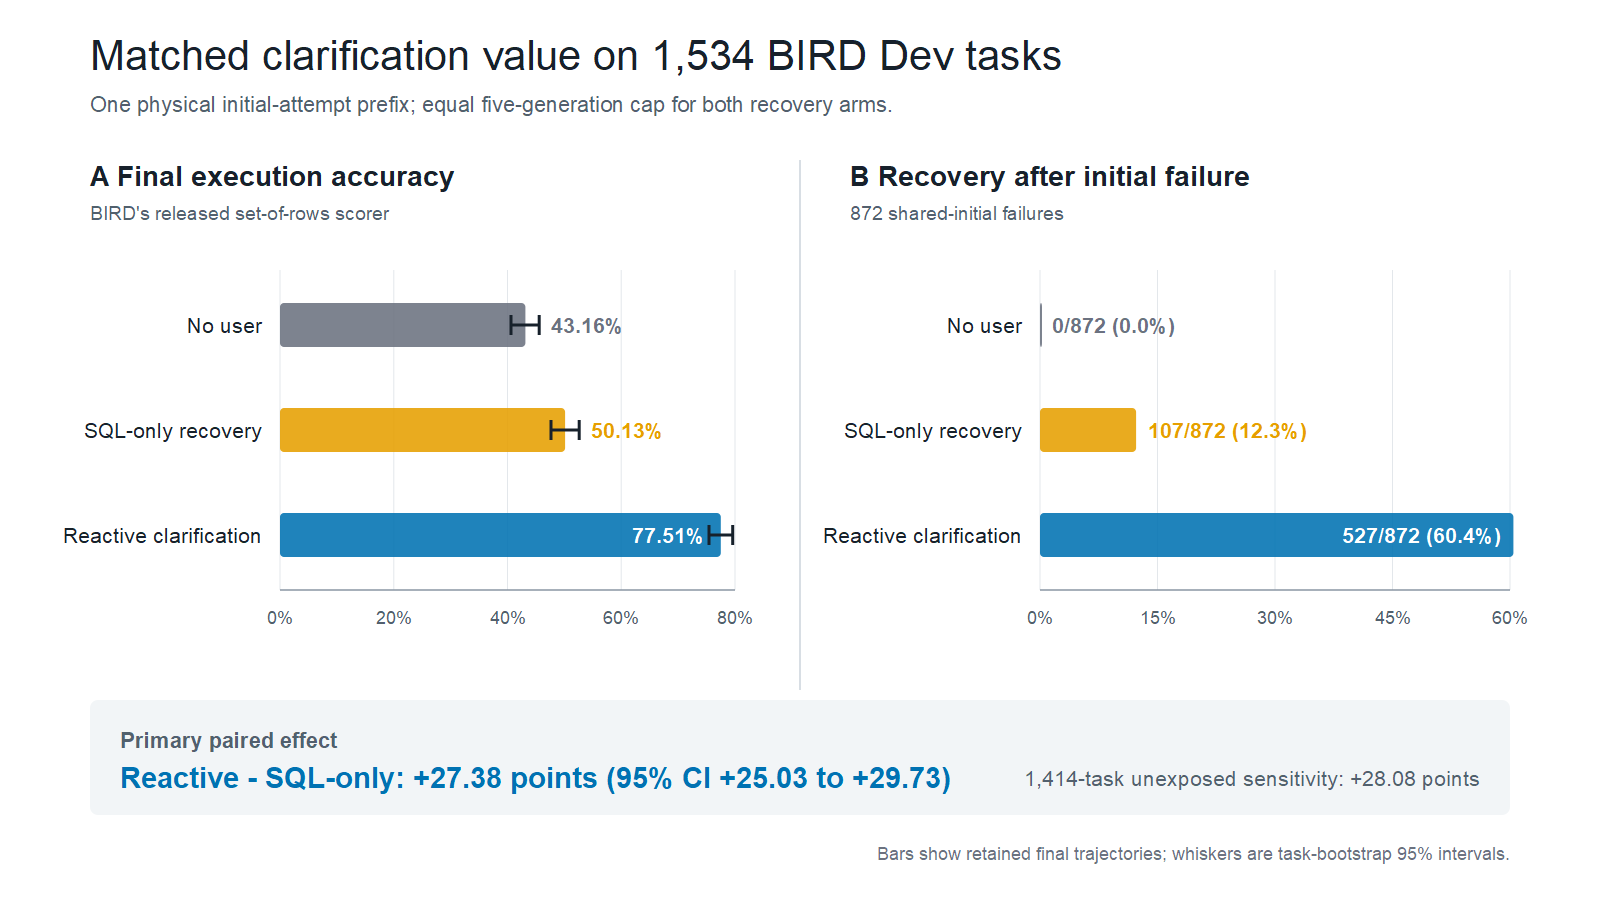
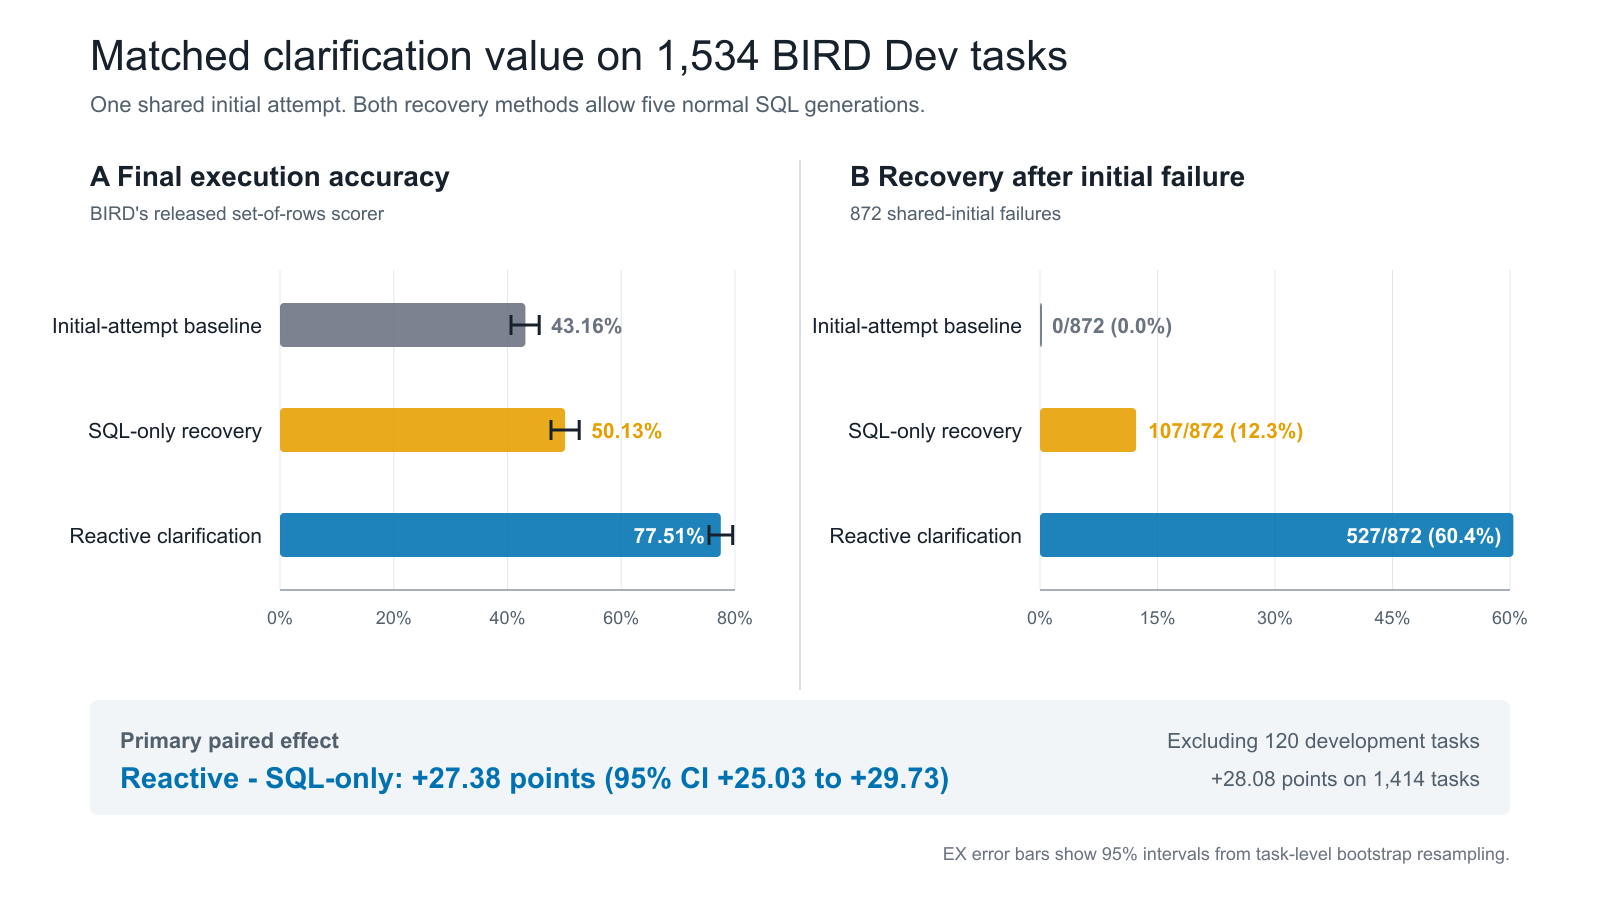
Update result plots and scoring summaries

diff --git a/experiment/interaction/plot_bird_dev_clarification_value.py b/experiment/interaction/plot_bird_dev_clarification_value.py
@@ -15,7 +15,7 @@ from typing import Any
 
 ARMS = ("no_user", "sql_only_recovery", "reactive_clarification")
 LABELS = {
-    "no_user": "No user",
+    "no_user": "Initial-attempt baseline",
     "sql_only_recovery": "SQL-only recovery",
     "reactive_clarification": "Reactive clarification",
 }
@@ -135,7 +135,7 @@ def render(analysis: dict[str, Any]) -> str:
         f'<svg xmlns="http://www.w3.org/2000/svg" width="{width}" height="{height}" '
         f'viewBox="0 0 {width} {height}" role="img">',
         "<title>Matched clarification value on BIRD Dev</title>",
-        "<desc>Execution accuracy and recovery after the shared initial-attempt prefix for three matched arms.</desc>",
+        "<desc>Execution accuracy and recovery after a shared initial attempt for three methods.</desc>",
         f'<rect width="{width}" height="{height}" fill="#FFFFFF"/>',
         _text(
             90,
@@ -147,7 +147,7 @@ def render(analysis: dict[str, Any]) -> str:
         _text(
             90,
             112,
-            "One physical initial-attempt prefix; equal five-generation cap for both recovery arms.",
+            "One shared initial attempt. Both recovery methods allow five normal SQL generations.",
             size=22,
             fill="#52606D",
         ),
@@ -281,9 +281,17 @@ def render(analysis: dict[str, Any]) -> str:
             ),
             _text(
                 1480,
+                748,
+                f"Excluding {data['tasks'] - sensitivity['tasks']:,} development tasks",
+                size=21,
+                anchor="end",
+                fill="#52606D",
+            ),
+            _text(
+                1480,
                 786,
-                f"{sensitivity['tasks']:,}-task unexposed sensitivity: "
-                f"+{sensitivity['difference_percentage_points']:.2f} points",
+                f"+{sensitivity['difference_percentage_points']:.2f} points "
+                f"on {sensitivity['tasks']:,} tasks",
                 size=21,
                 anchor="end",
                 fill="#52606D",
@@ -291,7 +299,7 @@ def render(analysis: dict[str, Any]) -> str:
             _text(
                 1510,
                 860,
-                "Bars show retained final trajectories; whiskers are task-bootstrap 95% intervals.",
+                "EX error bars show 95% intervals from task-level bootstrap resampling.",
                 size=18,
                 anchor="end",
                 fill="#6B7280",

diff --git a/experiment/interaction/plot_bird_dev_matched.py b/experiment/interaction/plot_bird_dev_matched.py
@@ -21,7 +21,7 @@ ARM_ORDER = (
     "sph_cq_es",
 )
 ARM_LABELS = {
-    "no_user": "No user",
+    "no_user": "Initial-attempt baseline",
     "proactive_only": "Proactive-only",
     "sph_cq": "Reactive CQ",
     "project_hybrid": "Hybrid",
@@ -134,7 +134,7 @@ def _write_turn_curve(output: Path, analysis: dict[str, Any]) -> None:
             _text(
                 left,
                 111,
-                "Cumulative by received answers; ask-first tasks have no SQL at turn 0.",
+                "Cumulative success after each answer. Ask-first tasks await their first scored SQL.",
                 size=22,
                 fill="#52606D",
             ),
@@ -265,7 +265,7 @@ def _write_turn_curve(output: Path, analysis: dict[str, Any]) -> None:
         _text(
             width - right,
             970,
-            "Turn 0 is a policy-budget point, not a shared initial-SQL comparison.",
+            "At turn 0, methods are at different stages of their work.",
             size=20,
             anchor="end",
             fill="#52606D",

diff --git a/experiment/interaction/tests/test_bird_dev_clarification_value.py b/experiment/interaction/tests/test_bird_dev_clarification_value.py
@@ -498,7 +498,9 @@ class ClarificationValueControllerTest(unittest.TestCase):
         self.assertIn("900 shared-initial failures", svg)
         self.assertIn("100/900 (11.1%)", svg)
         self.assertIn("500/900 (55.6%)", svg)
-        self.assertIn("1,400-task unexposed sensitivity", svg)
+        self.assertIn("Excluding 134 development tasks", svg)
+        self.assertIn("+26.50 points on 1,400 tasks", svg)
+        self.assertNotIn("unexposed", svg)
         self.assertNotIn("865 shared-initial failures", svg)
 
     def test_public_projection_replays_outcomes_without_private_fields(self) -> None:

diff --git a/experiment/notes/api-bird-dev-clarification-value-v1-full-result-2026-08-30.md b/experiment/notes/api-bird-dev-clarification-value-v1-full-result-2026-08-30.md
@@ -6,14 +6,16 @@ high reasoning.
 
 | Controller | BIRD EX | Recovery after 872 initial failures | Mean user turns |
 |---|---:|---:|---:|
-| No user | 662/1,534 (43.16%) | 0 | 0.00 |
+| Initial-attempt baseline | 662/1,534 (43.16%) | 0 | 0.00 |
 | SQL-only recovery | 769/1,534 (50.13%) | 107 (12.3%) | 0.00 |
 | Reactive clarification | 1,189/1,534 (77.51%) | 527 (60.4%) | 1.57 |
 
 Reactive clarification exceeds equally capped SQL-only recovery by **27.38
 percentage points** (95% task-bootstrap interval **+25.03 to +29.73**). It
 succeeds alone on 437 tasks; SQL-only recovery succeeds alone on 17. Excluding
-the 120 smoke and pilot IDs gives a similar +28.08-point difference.
+the 120 smoke and pilot IDs gives a similar +28.08-point difference. This
+removes the primary protocol's development tasks, but the project had already
+evaluated full BIRD Dev in an earlier study.
 
 This establishes the value of the complete target-aware clarification process
 over retry under the tested hidden rejection oracle. It does not isolate

diff --git a/experiment/notes/api-bird-dev-matched-v4-full-result-2026-08-30.md b/experiment/notes/api-bird-dev-matched-v4-full-result-2026-08-30.md
@@ -6,11 +6,14 @@ run requested GPT-5.6 Luna with high reasoning.
 
 | Controller | BIRD EX | Mean user turns | Mean model calls |
 |---|---:|---:|---:|
-| No user | 44.65% | 0.00 | 1.28 |
+| Initial-attempt baseline | 44.65% | 0.00 | 1.28 |
 | Proactive-only | 58.02% | 0.55 | 5.38 |
 | Reactive | 78.29% | 1.51 | 6.70 |
 | Hybrid | 78.36% | 1.68 | 7.41 |
 | Reactive with early stop | 64.99% | 0.71 | 4.28 |
+
+Per-method call counts include the shared initial attempt for each method,
+although the experiment makes that initial attempt only once per task.
 
 Adding a proactive opportunity before the reactive loop changes EX by only
 +0.07 points (95% task-bootstrap interval -1.76 to +1.89) while using more
